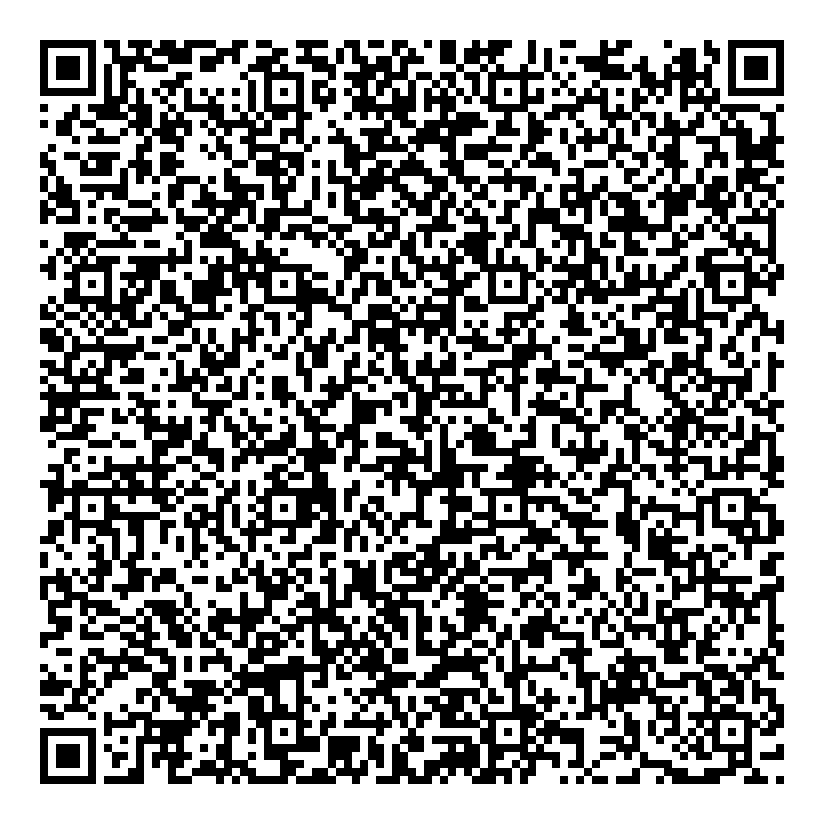
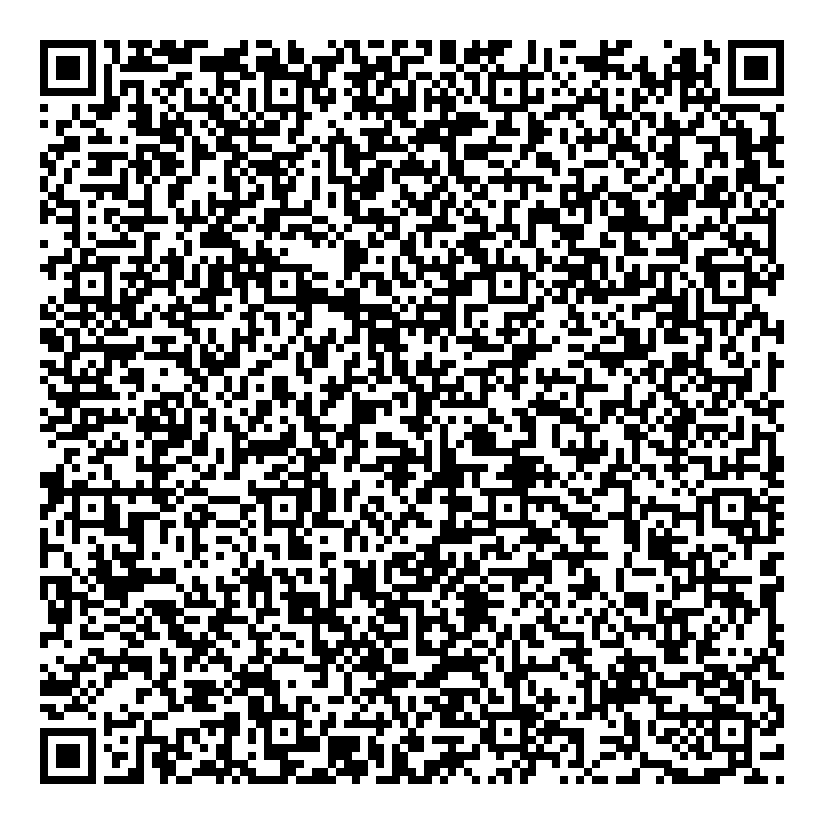
Publish Remote Agent 1.2.3

diff --git a/src/pages/PhoneControlPage.jsx b/src/pages/PhoneControlPage.jsx
@@ -222,8 +222,8 @@ function SummaryCard({ label, value, detail, tone = 'slate' }) {
 function FieldProvisioningCard() {
   const basePath = import.meta.env.BASE_URL || '/portal/';
   const [release, setRelease] = useState({
-    versionName: '1.2.2',
-    apkUrl: 'https://chargerentstations.com/portal/mdm/remote-agent-v1.2.2.apk',
+    versionName: '1.2.3',
+    apkUrl: 'https://chargerentstations.com/portal/mdm/remote-agent-v1.2.3.apk',
     qrImagePath: `${basePath}mdm/remote-agent-device-owner-qr.png`,
     qrPayloadPath: `${basePath}mdm/remote-agent-device-owner-payload.json`,
   });

diff --git a/src/version.js b/src/version.js
@@ -1,1 +1,1 @@
-export const VERSION = '1.68';
+export const VERSION = '1.69';
